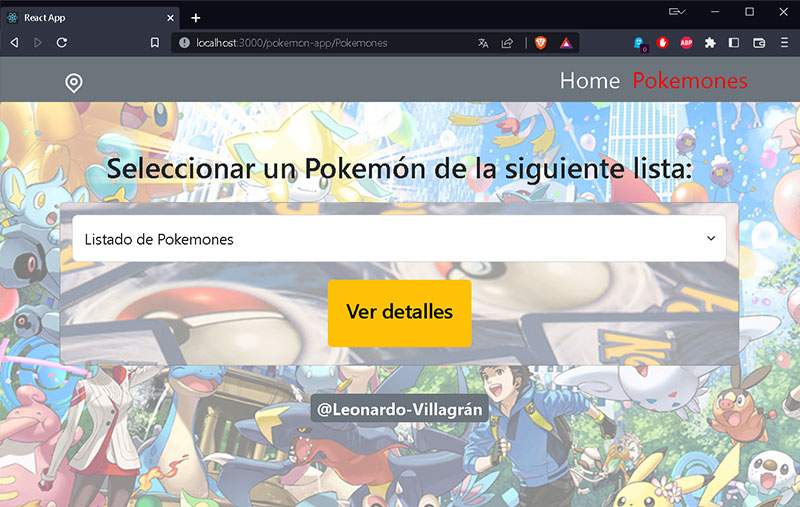
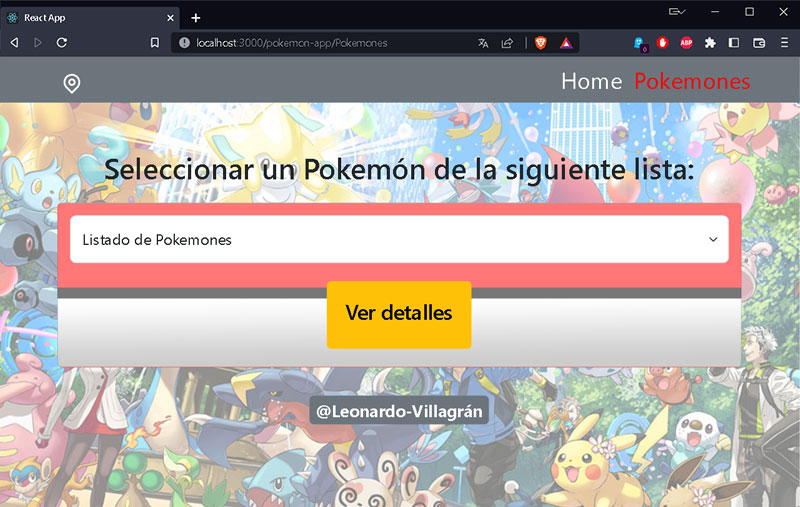
CSS and comments added

diff --git a/src/components/PokemonesComp.jsx b/src/components/PokemonesComp.jsx
@@ -11,6 +11,8 @@ import Col from 'react-bootstrap/Col';
 import Card from 'react-bootstrap/Card';
 
 function PokemonList() {
+
+  //Definición de estados
   const { id } = useParams();
   const { nuevaLista } = useContext(Context);
 
@@ -19,6 +21,7 @@ function PokemonList() {
   const [nuevaMatriz, setNuevaMatriz] = useState([]);
   const navigate = useNavigate();
 
+  //Captura de datos de Pokemón seleccionado
   useEffect(() => {
     async function fetchPokemonData() {
       if (id) {
@@ -30,6 +33,7 @@ function PokemonList() {
     fetchPokemonData();
   }, [id]);
 
+  //Captura de estadísticas del Pokemon seleccionado
   useEffect(() => {
     const nueva = pokemonData.map((producto1, index) => ({
       id: index,
@@ -44,6 +48,7 @@ function PokemonList() {
     navigate(`/Pokemones/${selectedPokemon}`);
   }
 
+  //Función que permite imprimir el nombre del Pokemón en pantalla como título a través de un filtro.
   const imprimirNombre = () => {
     const filteredUsers = nuevaLista.filter(lista => lista.name.toString() === id.toString());
     const arreglo =
@@ -54,6 +59,8 @@ function PokemonList() {
       });
     return arreglo;
   }
+
+   //Función que permite imprimirna foto del Pokemón seleccionado a través de un filtro.
   const imprimir_foto = () => {
 
     const filteredUsers = nuevaLista.filter(lista => lista.name.toString() === id.toString());
@@ -68,6 +75,7 @@ function PokemonList() {
     return arreglo;
   }
 
+  //Función que permite imprimir el listado de estadísticas. 
   const imprimir = () => {
     const arreglo =
       nuevaMatriz.map((productox, index) => (
@@ -81,6 +89,7 @@ function PokemonList() {
   console.log('Pokemon seleccionado: ', selectedPokemon);
   console.log('id: ', id);
 
+  //Función que permite imprimir en pantalla todos los datos del Pokemón seleccionado a través de cards de Bootstrap.
   const imprimirProcesado = () => {
     return (
       <>
@@ -91,7 +100,7 @@ function PokemonList() {
 
           <Row className="justify-content-center">
             <Col lg >
-              <Card className='h-100 card-transparent2'>
+              <Card className='h-100 card-transparent2 border border-danger rounded border-3'>
                 <Card.Body className="text-left" >
                   <Card.Text className="text-left">
                     {imprimir_foto()}
@@ -101,7 +110,7 @@ function PokemonList() {
               </Card>
             </Col>
             <Col lg>
-              <Card className='h-100 card-transparent4'>
+              <Card className='h-100 card-transparent4 border border-danger rounded border-3'>
                 <Card.Body >
                   <Card.Text>
                     {imprimir()}
@@ -114,7 +123,7 @@ function PokemonList() {
       </>
     )
   }
-
+  //Función que permite imprimir el selector para elegir un Pokemón de la lista obtenida desde la PokeAPI. 
   const imprimirSelect = () => {
     return (
       <>
@@ -122,9 +131,8 @@ function PokemonList() {
         <Container className='container-fluid'>
           <Row className="justify-content-center">
             <Col lg >
-              <Card className='h-100 card-transparent4'>
+              <Card className='h-100 card-transparent5'>
                 <Card.Body className="text-center" >
-                  <Card.Text >
                     <div>
                       <select className="form-select form-select-lg mb-3 p-3" aria-label="form-select-lg example" value={selectedPokemon} onChange={(event) => setSelectedPokemon(event.target.value)} >
                         <option value="" defaultValue disabled>Listado de Pokemones</option>
@@ -136,8 +144,6 @@ function PokemonList() {
                     <div>
                       <button className="btn btn-warning m-2 p-4 " onClick={handleViewDetails}><h3>Ver detalles</h3></button>
                     </div>
-                  </Card.Text>
-
                 </Card.Body>
               </Card>
             </Col>
@@ -149,7 +155,7 @@ function PokemonList() {
   }
 
 
-
+  //Si existe un id (nombre de un Pokemón seleccionado) se imprimen los datos del Pokemón, si no existe el id se imprime el selector. 
   return (
     <div className="d-block text-center">
       {(id) ? imprimirProcesado() : imprimirSelect()}

diff --git a/src/App.js b/src/App.js
@@ -1,24 +1,28 @@
-// Importación del menú
+//Importación de funciones 
+
 import React, { useState, useEffect } from 'react';
-import Navbar from "./components/Navbar";
 import { BrowserRouter, Routes, Route } from "react-router-dom";
+import  Context  from "./Context/Context";
+
+//Importación de componentes y vistas.
+import Navbar from "./components/Navbar";
 import Home from "./views/Home";
 import Pokemones from "./views/Pokemones";
-//import Pokemon from "./views/Pokemon";
 import NotFound from "./views/NotFound";
 import Footer from "./views/Footer";
 
-import  Context  from "./Context/Context";
-
-
+//Importación de css para casos particulares dentro de los componentes.
 import "./assets/css/pokemon.css";
 
 function App() {
 
+  //Definición de estados.
   const [pokemonList, setPokemonList] = useState([]);
   const [nuevaLista, setNuevaLista] = useState([]);
 
+ 
   useEffect(() => {
+     //Cargar la lista de Pokemones desde la PokeAPI.
     async function fetchPokemonList() {
       try {
         const response = await fetch('https://pokeapi.co/api/v2/pokemon/?limit=100&offset=0');
@@ -34,12 +38,14 @@ function App() {
   }, []);
 
   useEffect(() => {
+    //Función que genera la dirección de imagen para cada pokemon, según su id dentro de la PokeAPI. 
     const itemsWithCounter = pokemonList.map((item, index) => {
       return { ...item, 
         counter: index + 1,
         url: 'https://raw.githubusercontent.com/PokeAPI/sprites/master/sprites/pokemon/other/home/' + (index+1) + '.png', };
     });
 
+    //Función que ordena la lista de Pokemones por nombre de forma ascendente.
     const sortedData = itemsWithCounter.sort((a, b) => {
       if (a.name < b.name) {
         return -1;
@@ -49,14 +55,12 @@ function App() {
       }
       return 0;
     });
-
-
     setNuevaLista(sortedData);
   }, [pokemonList]);
 
-
+  //Generación de la estados globales.
   const globalState = { nuevaLista, setNuevaLista };
-   //<BrowserRouter basename='/pokemon-app'>
+
   return (
     <div className="App">
       <Context.Provider value={ globalState }>

diff --git a/src/assets/css/pokemon.css b/src/assets/css/pokemon.css
@@ -1,5 +1,5 @@
 .peque{
-    width: 64.5%;
+    width: 70%;
     padding: 0px 0px 0px 0px;
     margin: 0px 0px 0px 0px;
 }
@@ -22,10 +22,6 @@ a{
     font-size:30px;
 }
 
-.card-transparent{
-    background-image: url("../img/fondo2.jpg");
-    background-size:unset;
-}
 .card-transparent2{
     background-image: url("../img/fondo_chico3.jpg");
     background-size:cover;
@@ -34,6 +30,10 @@ a{
     background-image: url("../img/fondo_chico4.jpg");
     background-size:cover;
 }
-.imagen_pastel{
+.card-transparent5{
+    background-image: url("../img/fondo_select5.png");
+    background-size:cover;
+}
+.imagen_home{
     width: 20%;
 }

diff --git a/src/views/Home.jsx b/src/views/Home.jsx
@@ -8,7 +8,7 @@ const Home = () => {
       <h1 className="pt-5">
         Bienvenido <span className="fw-bold">Maestro Pokemon</span></h1>
       
-      <img className="imagen_pastel" src={image_pastel} alt={'foto'}/>
+      <img className="imagen_home" src={image_pastel} alt={'foto'}/>
       <h2 className="pt-5 font-weight-bold">El lugar de los Pokemones felices.</h2>
     </Container>
   );
